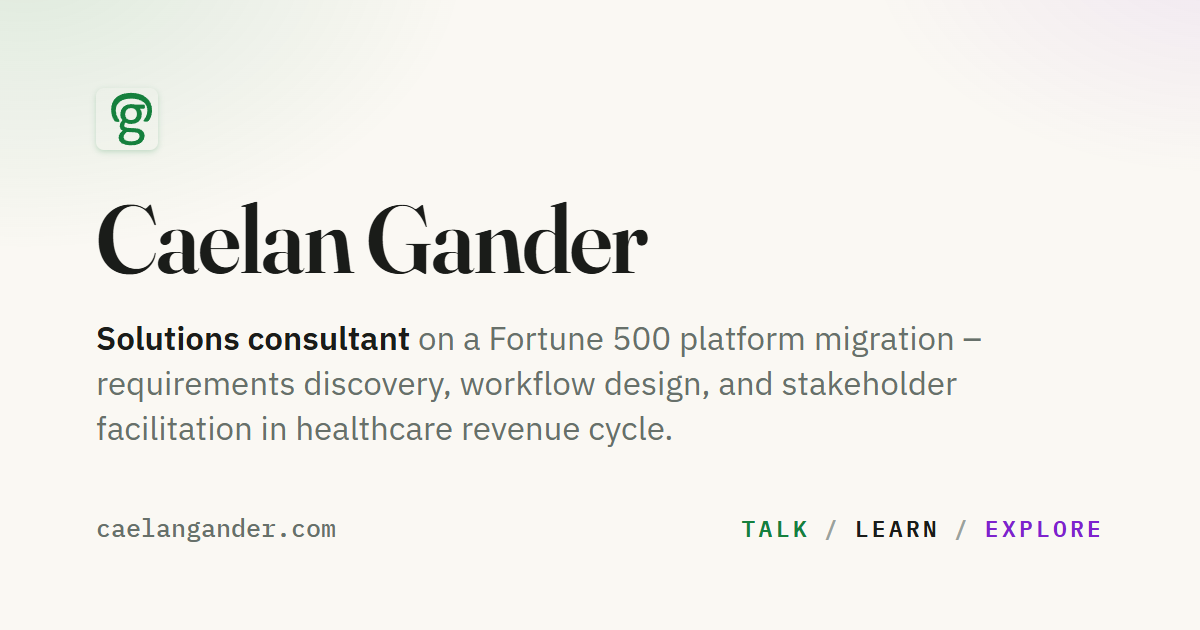
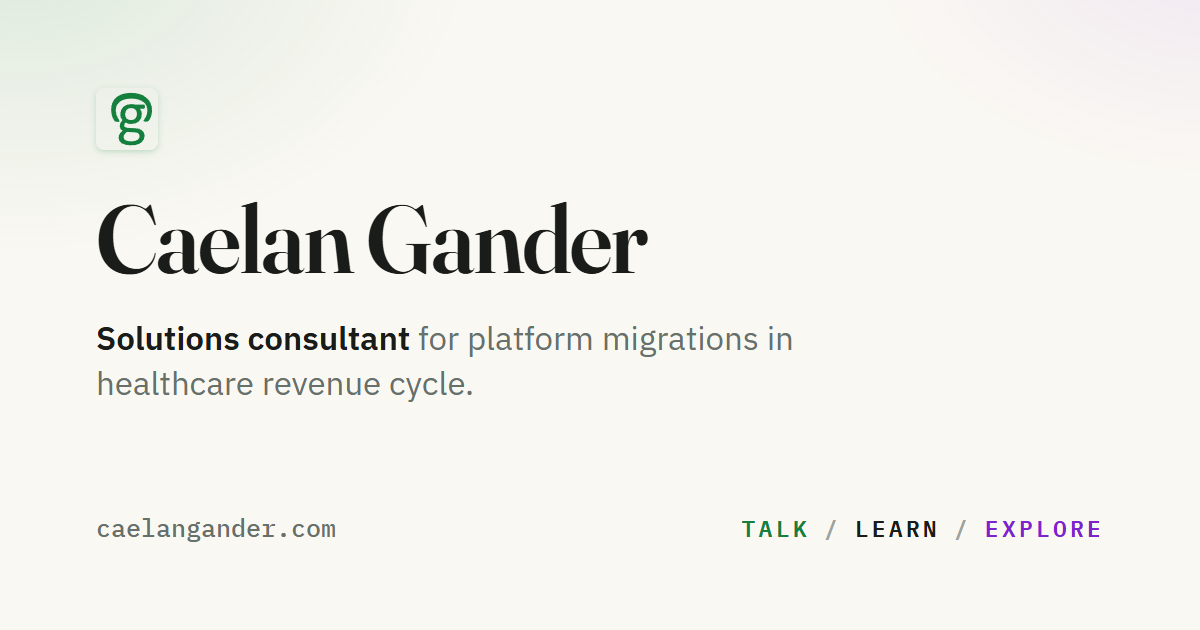
Say who, not which contract, in the tagline and the link preview
One tagline on the banner, the card, the descriptions and the alt text: Solutions consultant for platform migrations in healthcare revenue cycle, then discovery, build-ready specifications and prototypes mocked up with AI-assisted development tools. No client or contract is named. og-image.png regenerated; og:image and twitter:image bumped to ?v=5.

Changed region(s): [[0.0925, 0.5127, 0.8017, 0.6333], [0.0617, 0.6635, 0.555, 0.7238]]

diff --git a/index.html b/index.html
@@ -4,7 +4,7 @@
   <meta charset="UTF-8">
   <meta name="viewport" content="width=device-width, initial-scale=1.0">
   <title>Caelan Gander</title>
-  <meta name="description" content="Solutions consultant on a Fortune 500 platform migration – requirements discovery, workflow design, and stakeholder facilitation in healthcare revenue cycle. Prototyping solution mockups with Claude Code.">
+  <meta name="description" content="Solutions consultant for platform migrations in healthcare revenue cycle. I sit with clients for discovery, turn their requirements into build-ready specifications, and mock up functional prototypes with AI-assisted development tools.">
   <meta name="color-scheme" content="light dark">
   <meta name="theme-color" content="#FAF8F3" media="(prefers-color-scheme: light)">
   <meta name="theme-color" content="#0E1413" media="(prefers-color-scheme: dark)">
@@ -14,16 +14,16 @@
   <!-- Open Graph / social-share preview (LinkedIn, Slack, Twitter, etc.) -->
   <meta property="og:type" content="website">
   <meta property="og:title" content="Caelan Gander – Solutions consultant in healthcare revenue cycle">
-  <meta property="og:description" content="Solutions consultant on a Fortune 500 platform migration – requirements discovery, workflow design, and stakeholder facilitation in healthcare revenue cycle. Prototyping solution mockups with Claude Code.">
+  <meta property="og:description" content="Solutions consultant for platform migrations in healthcare revenue cycle. I sit with clients for discovery, turn their requirements into build-ready specifications, and mock up functional prototypes with AI-assisted development tools.">
   <meta property="og:url" content="https://caelangander.com">
-  <meta property="og:image" content="https://caelangander.com/og-image.png?v=4">
+  <meta property="og:image" content="https://caelangander.com/og-image.png?v=5">
   <meta property="og:image:width" content="1200">
   <meta property="og:image:height" content="630">
-  <meta property="og:image:alt" content="Caelan Gander, Solutions consultant on a Fortune 500 platform migration – requirements discovery, workflow design, and stakeholder facilitation in healthcare revenue cycle">
+  <meta property="og:image:alt" content="Caelan Gander, Solutions consultant for platform migrations in healthcare revenue cycle.">
   <meta name="twitter:card" content="summary_large_image">
   <meta name="twitter:title" content="Caelan Gander – Solutions consultant in healthcare revenue cycle">
-  <meta name="twitter:description" content="Solutions consultant on a Fortune 500 platform migration – requirements discovery, workflow design, and stakeholder facilitation in healthcare revenue cycle. Prototyping solution mockups with Claude Code.">
-  <meta name="twitter:image" content="https://caelangander.com/og-image.png?v=4">
+  <meta name="twitter:description" content="Solutions consultant for platform migrations in healthcare revenue cycle. I sit with clients for discovery, turn their requirements into build-ready specifications, and mock up functional prototypes with AI-assisted development tools.">
+  <meta name="twitter:image" content="https://caelangander.com/og-image.png?v=5">
 
   <link rel="stylesheet" href="style.css?v=32">
   <link rel="preconnect" href="https://fonts.googleapis.com">
@@ -57,7 +57,7 @@
       <div class="banner-wrap">
         <div class="banner">
           <h1 class="banner-name">Caelan Gander</h1>
-          <p class="banner-about"><strong>Solutions consultant</strong> on a Fortune 500 platform migration in healthcare revenue cycle. I turn client requirements into build-ready specifications &ndash; and when one is ambiguous, I build the prototype with Claude Code and bring it into the client meeting.</p>
+          <p class="banner-about"><strong>Solutions consultant</strong> for platform migrations in healthcare revenue cycle. I sit with clients for discovery, turn their requirements into build-ready specifications, and mock up functional prototypes with AI-assisted development tools.</p>
         </div>
       </div>
 
